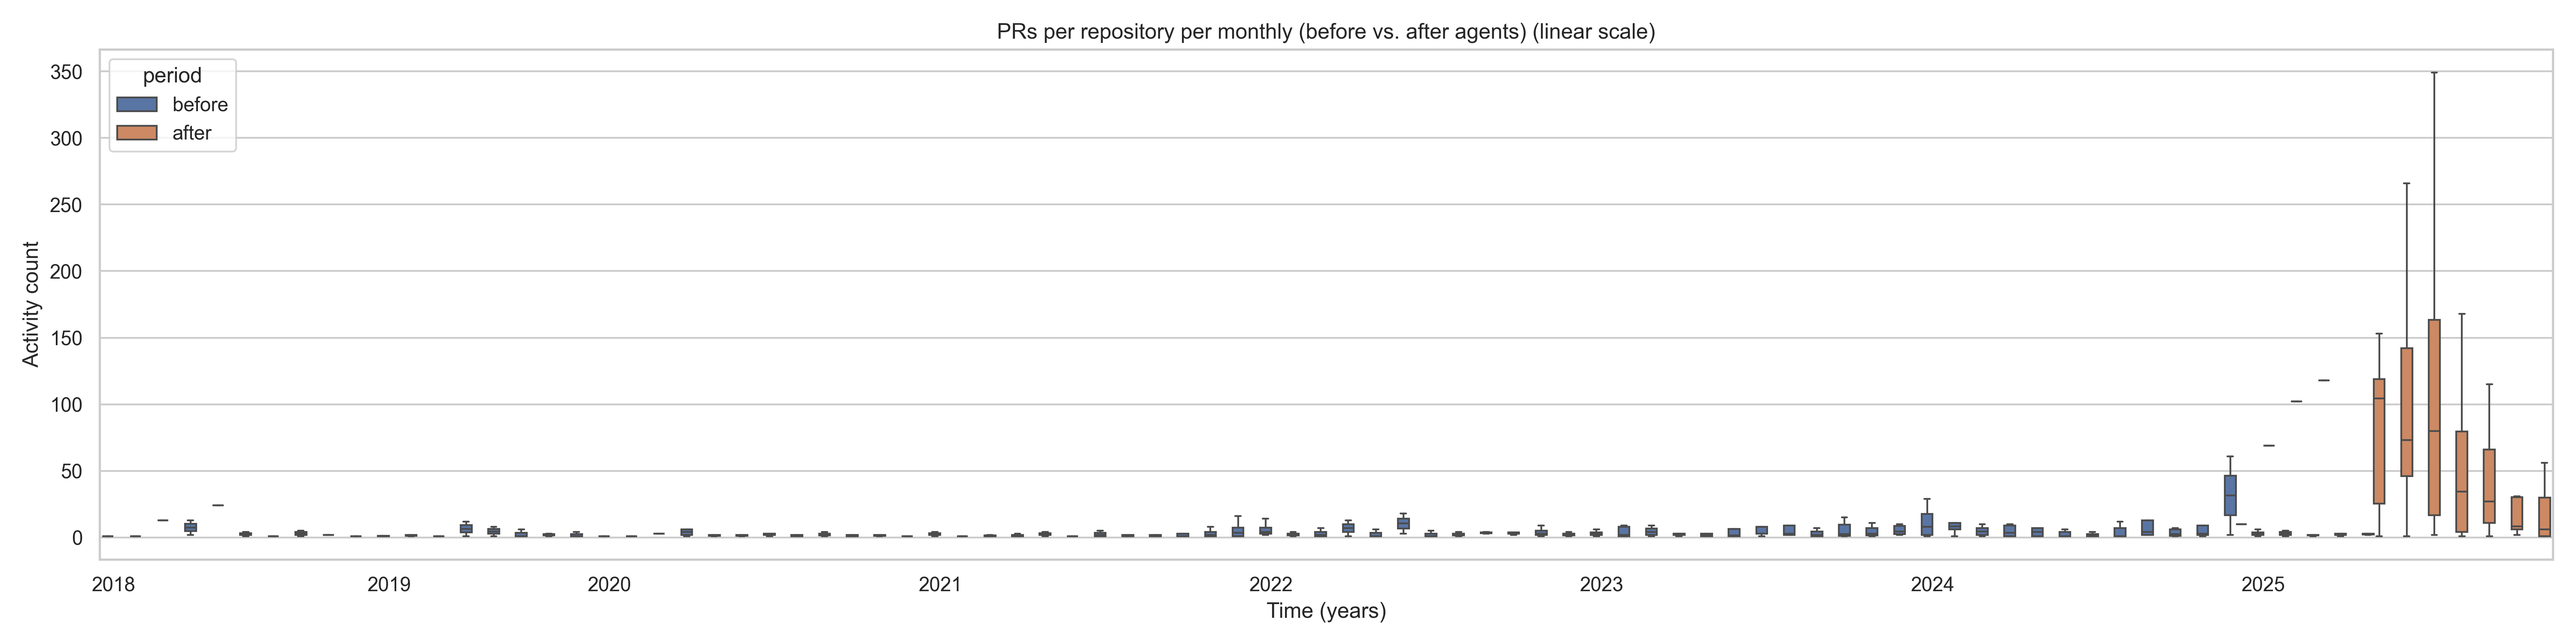
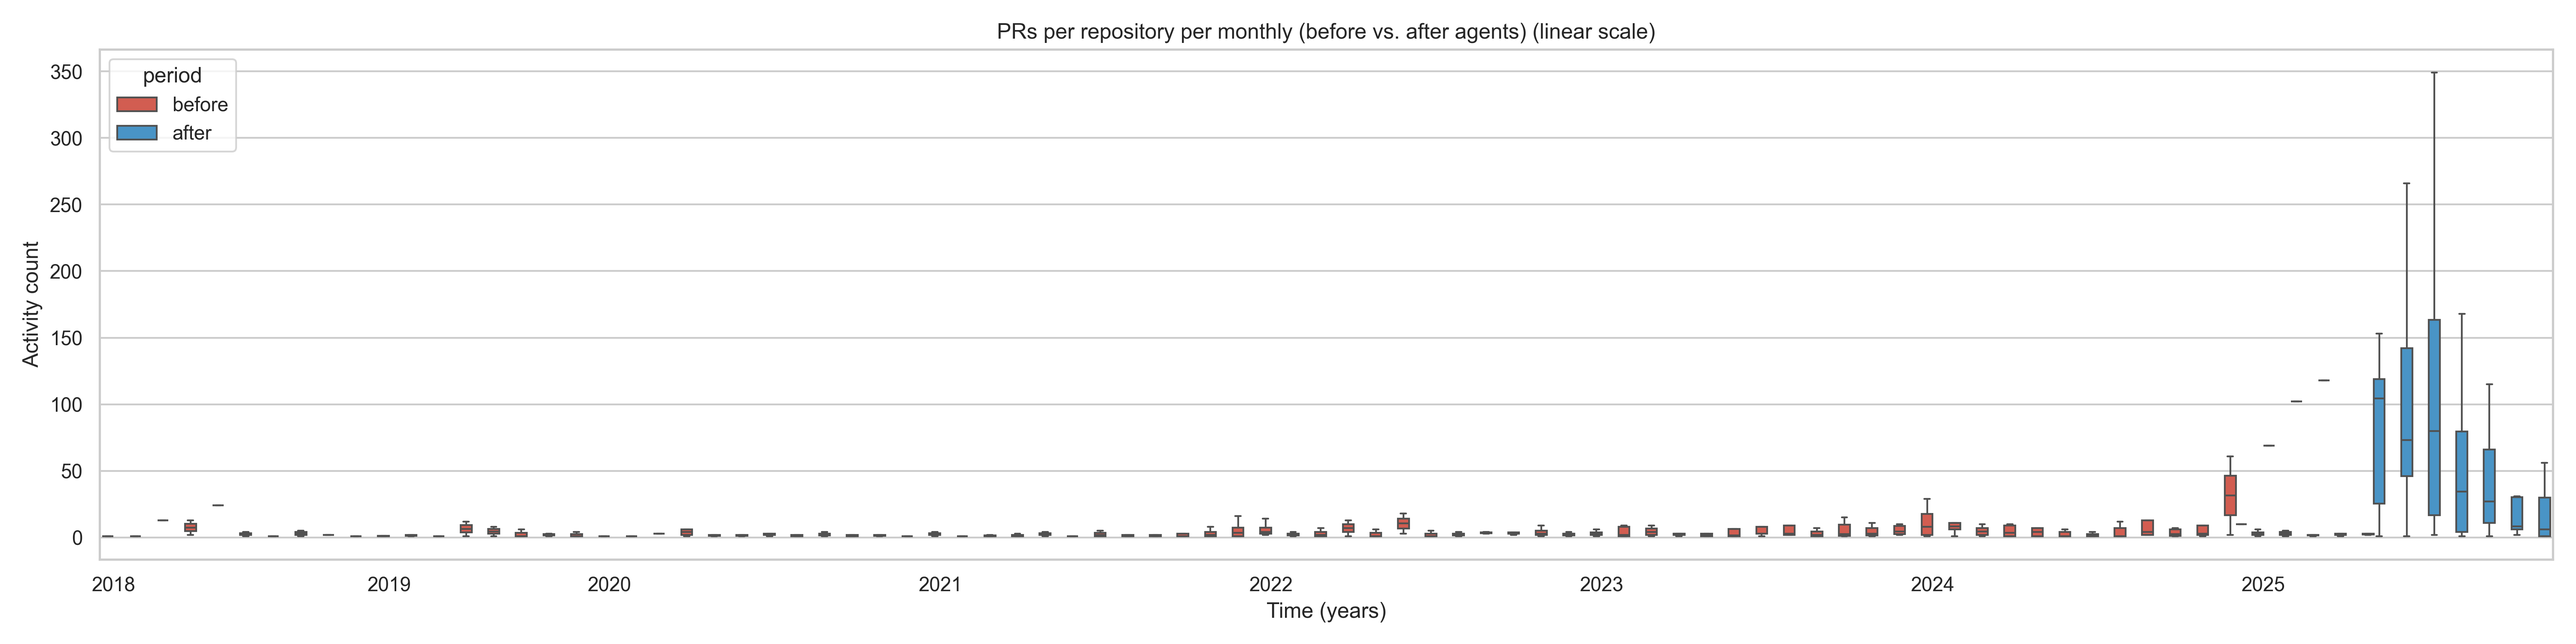
graphs for presentation

diff --git a/scripts/analysis/plot_utils.py b/scripts/analysis/plot_utils.py
@@ -8,10 +8,39 @@ from typing import Literal
 import matplotlib.pyplot as plt
 import pandas as pd
 import seaborn as sns
+import numpy as np
+import colorsys
+import matplotlib.colors as mcolors
+from matplotlib.patches import Patch
 
 sns.set(style="whitegrid")
 
+# ----------------------------------------------------------------------
+# Lightness-only hue-preserving shade generator
+# ----------------------------------------------------------------------
+def _generate_lightness_shades(base_hex: str, n: int):
+    """
+    Generate n shades of the SAME hue:
+        darkest (bottom) → lightest (top)
+    Only modifies HLS lightness; hue & saturation preserved.
+    """
+    r, g, b = mcolors.to_rgb(base_hex)
+    h, l, s = colorsys.rgb_to_hls(r, g, b)
 
+    # Good default lightness range: dark 0.35 → light 0.80
+    lightness_values = np.linspace(0.35, 0.80, n)
+
+    shades = []
+    for L in lightness_values:
+        r2, g2, b2 = colorsys.hls_to_rgb(h, L, s)
+        shades.append(mcolors.to_hex((r2, g2, b2)))
+
+    return shades
+
+
+# ----------------------------------------------------------------------
+# BOXPLOTS (RQ1): now using fixed red/blue palette
+# ----------------------------------------------------------------------
 def monthly_or_quarterly_boxplot(
     df_before: pd.DataFrame,
     df_after: pd.DataFrame,
@@ -27,19 +56,18 @@ def monthly_or_quarterly_boxplot(
     Categorical seaborn boxplot with:
     - monthly/quarterly binning
     - linear + log versions
-    - X-axis labels thinned to one label per YEAR
-    - NO datetime ticks (prevents ConversionError)
+    - custom before/after palette
     """
 
     outdir.mkdir(parents=True, exist_ok=True)
 
-    # ----------------------------
-    # INTERNAL: Aggregate helper
-    # ----------------------------
+    # -------------------------
+    # Internal aggregation
+    # -------------------------
     def aggregate(df: pd.DataFrame, label: str) -> pd.DataFrame:
         if df.empty:
             return pd.DataFrame(columns=["bin", group_col, "count", "period"])
-        
+
         tmp = df.copy()
         tmp["bin"] = tmp[date_col].dt.to_period(freq).dt.to_timestamp()
 
@@ -50,7 +78,6 @@ def monthly_or_quarterly_boxplot(
         g["period"] = label
         return g
 
-    # Aggregate
     before = aggregate(df_before, "before")
     after = aggregate(df_after, "after")
 
@@ -58,35 +85,31 @@ def monthly_or_quarterly_boxplot(
     if data.empty:
         return
 
-    # ---------------------------------
-    # Build categorical labels for x-axis
-    # ---------------------------------
+    # Build categorical axis
     data = data.sort_values("bin")
     data["bin_label"] = data["bin"].dt.strftime("%Y-%m")
-
-    # Unique ordered bins
     bins = data["bin_label"].unique().tolist()
-
-    # Map bin_label → categorical integer position
     data["bin_pos"] = data["bin_label"].apply(lambda x: bins.index(x))
 
-    # Determine yearly tick positions (categorical index)
     years = sorted(data["bin"].dt.year.unique())
-
     year_positions = []
     year_labels = []
     for y in years:
-        # first bin of that year
         idx = data.index[data["bin"].dt.year == y]
-        if len(idx) == 0:
-            continue
-        first_pos = data.loc[idx[0], "bin_pos"]
-        year_positions.append(first_pos)
-        year_labels.append(str(y))
+        if len(idx) > 0:
+            first_pos = data.loc[idx[0], "bin_pos"]
+            year_positions.append(first_pos)
+            year_labels.append(str(y))
 
-    # ---------------------------------------------
-    # PLOT: linear & log versions
-    # ---------------------------------------------
+    # Palette
+    PALETTE = {
+        "before": "#E74C3C",  # red
+        "after":  "#3498DB",  # blue
+    }
+
+    # ---------------------------------------
+    # Plot (linear + log)
+    # ---------------------------------------
     for scale in ["linear", "log"]:
         plt.figure(figsize=(20, 5))
 
@@ -96,12 +119,12 @@ def monthly_or_quarterly_boxplot(
             y="count",
             hue="period",
             showfliers=False,
+            palette=PALETTE,
         )
 
         if scale == "log":
             ax.set_yscale("log")
 
-        # Set tick positions (categorical integers)
         ax.set_xticks(year_positions)
         ax.set_xticklabels(year_labels)
 
@@ -114,6 +137,10 @@ def monthly_or_quarterly_boxplot(
         plt.savefig(out_path, dpi=300)
         plt.close()
 
+
+# ----------------------------------------------------------------------
+# STACKED BARPLOT (RQ1): Before = red gradient, After = blue gradient
+# ----------------------------------------------------------------------
 def stacked_activity_share_bar(
     activity_counts_before,
     activity_counts_after,
@@ -122,18 +149,17 @@ def stacked_activity_share_bar(
     title="Activity Share Before vs After"
 ):
     """
-    Automatically detects activity types from dictionary keys.
+    Stacked barplot:
+    - before uses red gradients (dark → light)
+    - after uses blue gradients (dark → light)
+    - legend shows BOTH colours per activity type
     """
-
-    import matplotlib.pyplot as plt
-    import numpy as np
-    from pathlib import Path
 
     outdir = Path(outdir)
     outdir.mkdir(parents=True, exist_ok=True)
     outpath = outdir / filename
 
-    # Auto-detect activity types
+    # Detect activities
     activity_types = sorted(activity_counts_before.keys())
 
     # Totals
@@ -144,17 +170,21 @@ def stacked_activity_share_bar(
     props_before = {a: activity_counts_before[a] / total_before for a in activity_types}
     props_after  = {a: activity_counts_after[a] / total_after  for a in activity_types}
 
-    # Global average for ordering
+    # Sort by global average contribution
     avg_props = {a: (props_before[a] + props_after[a]) / 2 for a in activity_types}
-
-    # Sort descending so largest is at bottom
     sorted_acts = sorted(avg_props.keys(), key=lambda a: avg_props[a], reverse=True)
 
-    # Colors
-    cmap = plt.get_cmap("tab20")
-    colors = {a: cmap(i) for i, a in enumerate(sorted_acts)}
+    # Generate gradients
+    BASE_RED  = "#E74C3C"
+    BASE_BLUE = "#3498DB"
 
-    fig, ax = plt.subplots(figsize=(7, 6))
+    before_shades = _generate_lightness_shades(BASE_RED, len(sorted_acts))
+    after_shades  = _generate_lightness_shades(BASE_BLUE, len(sorted_acts))
+
+    before_colors = dict(zip(sorted_acts, before_shades))
+    after_colors  = dict(zip(sorted_acts, after_shades))
+
+    fig, ax = plt.subplots(figsize=(9, 6))
 
     x = np.array([0, 1])
     labels = ["before", "after"]
@@ -162,12 +192,12 @@ def stacked_activity_share_bar(
     bottom_b = 0.0
     bottom_a = 0.0
 
-    for a in sorted_acts:
-        pb = props_before[a]
-        pa = props_after[a]
+    for act in sorted_acts:
+        pb = props_before[act]
+        pa = props_after[act]
 
-        ax.bar(x[0], pb, bottom=bottom_b, color=colors[a], label=a)
-        ax.bar(x[1], pa, bottom=bottom_a, color=colors[a])
+        ax.bar(x[0], pb, bottom=bottom_b, color=before_colors[act])
+        ax.bar(x[1], pa, bottom=bottom_a, color=after_colors[act])
 
         bottom_b += pb
         bottom_a += pa
@@ -177,7 +207,20 @@ def stacked_activity_share_bar(
     ax.set_ylabel("Proportion of activity")
     ax.set_title(title)
 
-    ax.legend(title="Activity Type", bbox_to_anchor=(1.05, 1), loc="upper left")
+    # --------------------------
+    # LEGEND: both colours shown
+    # --------------------------
+    legend_handles = []
+    for act in sorted_acts:
+        legend_handles.append(Patch(color=before_colors[act], label=f"{act} (before)"))
+        legend_handles.append(Patch(color=after_colors[act],  label=f"{act} (after)"))
+
+    ax.legend(
+        handles=legend_handles,
+        title="Activity Type",
+        bbox_to_anchor=(1.05, 1),
+        loc="upper left",
+    )
 
     plt.tight_layout()
     plt.savefig(outpath, dpi=300)
